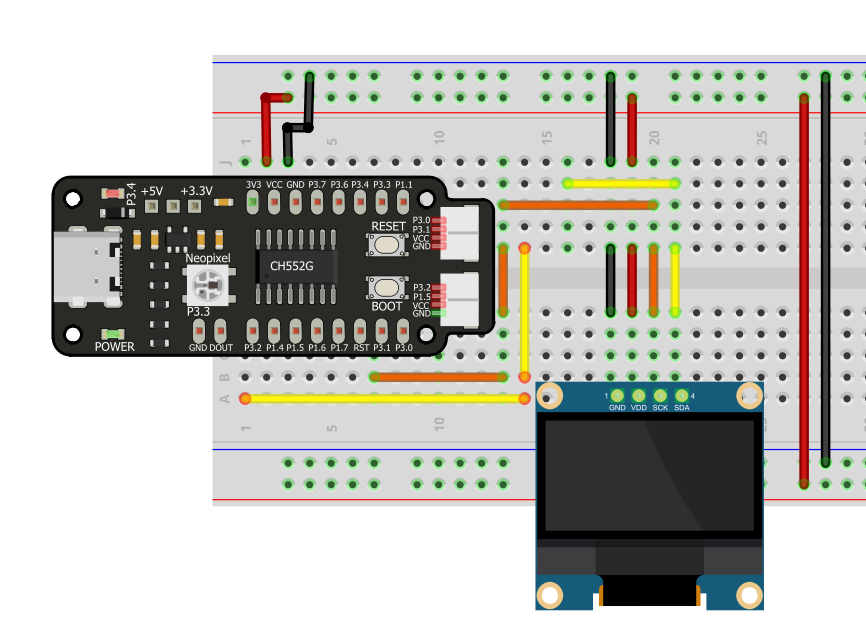
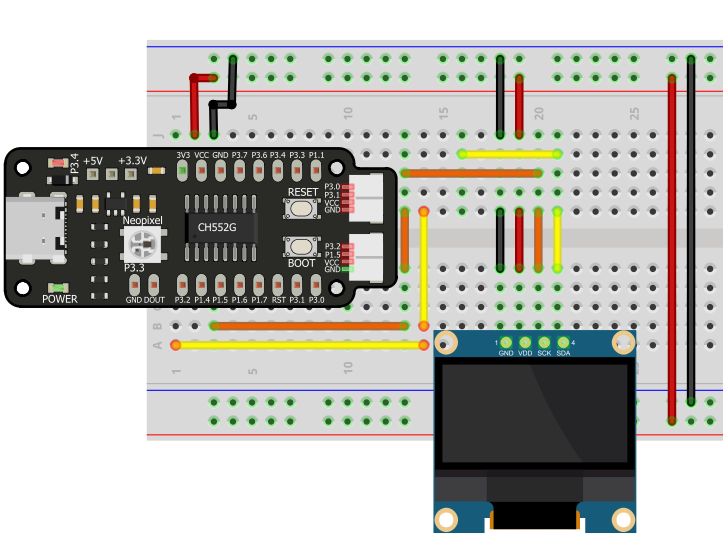
chore: edit controlador pwm and comunicacion i2c

diff --git a/content/docs/9-Controlador_pwm/_index.md b/content/docs/9-Controlador_pwm/_index.md
@@ -6,15 +6,16 @@ BookToC: false
 ---
 
 # Configuración del PWM 
+---
 El CH552 es un microcontrolador USB que ofrece versatilidad en las Entradas/Salidas, incluida la capacidad de generar señales PWM. En este ejemplo, se te guiará a través de la configuración del CH552 para generar señales PWM con una frecuencia y ciclo de trabajo específicos.
 
-## Conceptos Básicos del PWM
+### Conceptos Básicos
 
 La Modulación de Ancho de Pulso (PWM) es una técnica utilizada para controlar la potencia entregada a un dispositivo. Se logra variando la duración de una señal digital de alta frecuencia, controlando así la cantidad de potencia entregada al dispositivo. Esto es útil en diversas aplicaciones, como el control de motores, ajuste de brillo de LED y generación de señales analógicas.
 
-## Ejemplo de Código PWM
-
-Para probar el ejemplo, es necesario seguir los siguientes estos pasos:
+## Compilar proyecto
+---
+Para probar el ejemplo, es necesario seguir los siguientes pasos:
 
 1. Descargar el archivo:
 
@@ -34,12 +35,28 @@ Para probar el ejemplo, es necesario seguir los siguientes estos pasos:
    - Ajuste de carga a: "USER CODE /w 2866 USB RAM".
 
 ```
+<div style="text-align: center;">
+  <img src="/docs/9-Controlador_pwm/images/pwm1.png" alt="PWM" />
+</div>
 
-4. Completa la carga del código presionando el botón de boot mientras se conecta vía USB.
+## Compilar y correr un programa
+---
 
-A continuación, se decribe el funcionamiento del codigo para generar señales PWM:
+Carga un programa ingresando al modo de <strong>BOOT</strong> (cargador de arranque). Desconecte el cable USB, presione el botón <strong>BOOT</strong> en la tarjeta de desarrollo y luego vuelve a conectar a la PC.
 
-El IDE abre dos archivos, el primero es un interfaz de compilación:
+<img src="/docs/3-Compilador_mcs51/images/pc_ch.png" alt="Imagen de ch552">
+
+Presione cargar codigo y espere hasta que muestre el mensaje Resetok.
+<p align="center">
+    <img src="/docs/3-Compilador_mcs51/images/ruin.png" alt="buttons_leds">
+</p>
+
+
+**A continuación, se describe el funcionamiento del código para generar señales PWM:**
+
+Al abrir el IDE, este despliega dos archivos. Dado que Arduino actúa simplemente como un compilador, la estructura del código presentado experimentará cambios al ser procesado. Por lo tanto, se sugiere abrir el proyecto completo utilizando un editor de código preferido.
+
+En este contexto, se recomienda el uso de <a href="https://code.visualstudio.com/" target="_blank">Visual Studio Code</a>. El primer archivo corresponde a una interfaz de compilación. Este entorno de desarrollo proporciona una visión integral del proyecto, permitiendo un manejo más eficiente y una comprensión más profunda de la estructura del código.
 ```c
 #ifndef USER_USB_RAM
 #error "This firmware needs to be compiled with a USER USB setting"
@@ -52,127 +69,83 @@ unsigned char _sdcc_external_startup (void) __nonbanked {
 ```
 El segundo abre el código que permite hacer la función deseada:
 
+ Este código incluye funciones para cambiar la señal PWM y un bucle principal que realiza transiciones suaves.
+
+
+
 ```c
-/** @file CH552-PWM.c (SOURCE)
- *
- *  @brief CH552 PWM example
- *
- *  @author @CesarBautista 
- *
- *  @bug No known bugs.
- */
-
-/******************************************************************************
- * INCLUDES
- *****************************************************************************/
-
 #include <stdio.h>
-#include "src/config.h"                   // user configurations
-#include "src/system.h"                   // system functions
-#include "src/gpio.h"                     // for GPIO
-#include "src/delay.h"                    // for delays
+#include "src/config.h"
+#include "src/system.h"
+#include "src/gpio.h"
+#include "src/delay.h"
 #include "src/pwm.h"
-
-/******************************************************************************
- * MACROS AND DEFINES
- *****************************************************************************/
 
 #define MIN_COUNTER 10
 #define MAX_COUNTER 254
 #define STEP_SIZE   10
 
-/******************************************************************************
- * TYPEDEFS
- *****************************************************************************/
-
-/******************************************************************************
- * PUBLIC FUNCTION PROTOTYPES
- *****************************************************************************/
-
 void change_pwm(int hex_value)
 {
-    PWM_write(PIN_PWM, hex_value);
+  PWM_write(PIN_PWM, hex_value);
 }
 void main(void) 
 {
-    PWM_set_freq(1000);                    
-    PIN_output(PIN_PWM);       
-    PWM_start(PIN_PWM);      
-    PWM_write(PIN_PWM, 0);
-    CLK_config();                          
-    DLY_ms(5);                            
+  PWM_set_freq(1000);                    
+  PIN_output(PIN_PWM);       
+  PWM_start(PIN_PWM);      
+  PWM_write(PIN_PWM, 0);
+  CLK_config();                          
+  DLY_ms(5);                            
 
 while (1) 
 {
-    for (int i = MIN_COUNTER; i < MAX_COUNTER; i+=STEP_SIZE) 
-    {
-        change_pwm(i);
-        DLY_ms(10);
-    }
-    for (int i = MAX_COUNTER; i > MIN_COUNTER; i-=STEP_SIZE)
-    {
-        change_pwm(i);
-        DLY_ms(10);
-    }
-    
+  for (int i = MIN_COUNTER; i < MAX_COUNTER; i+=STEP_SIZE) 
+  {
+    change_pwm(i);
+    DLY_ms(10);
+  }
+  for (int i = MAX_COUNTER; i > MIN_COUNTER; i-=STEP_SIZE)
+  {
+    change_pwm(i);
+    DLY_ms(10);
+  }
+  
 }
 }
-```
-Dado que arduino solo es nuestro compilador el codigo que se te presenta cambia su estructura, por lo que debes abrir el proyecto completo con tu editor de codigo favorito:
 
-Se te recomienda el uso de <a href="https://code.visualstudio.com/" target="_blank">Visual Studio Code</a>
-
-
-
-# Aplicaciones Prácticas del PWM
-
-El código proporciona una implementación práctica de PWM utilizando el microcontrolador CH552 y Arduino IDE. Se incluye un bucle principal que realiza transiciones suaves de la salida PWM, aplicable en situaciones prácticas como el control de motores para lograr movimientos suaves o el ajuste gradual de la intensidad luminosa de una fuente de luz.
-
-## Configuración para Arduino IDE
-
-El código está diseñado para ser utilizado con el microcontrolador CH552 y se integra con el entorno de desarrollo Arduino IDE. Asegúrate de tener instalada la biblioteca ch55xduino y sigue las instrucciones proporcionadas para la compilación. Se especifican opciones de configuración del board, como la fuente de reloj, el método de carga y la configuración USB.
-
-```c
-// Configuración para Arduino IDE
-// ...
-
-#ifndef USER_USB_RAM
-#error "This firmware needs to be compiled with a USER USB setting"
-#endif
-
-unsigned char _sdcc_external_startup (void) __nonbanked {
-  return 0;
-}
 ```
 
-Descargar el código para Arduino IDE [AQUÍ](/).
+El código proporciona una implementación práctica de PWM utilizando el microcontrolador CH552 y el entorno de desarrollo Arduino IDE. Se ha incorporado un bucle principal que ejecuta transiciones suaves en la salida PWM, lo cual resulta aplicable en diversas situaciones prácticas. Entre estas aplicaciones, se destacan el control de motores para lograr movimientos suaves y el ajuste gradual de la intensidad luminosa de una fuente de luz.
 
-## Código Fuente para CH552
+De manera predeterminada, la tarjeta de desarrollo del CH552 cuenta con un LED conectado al pin `P3.4`, y la configuración específica se encuentra en el archivo `scr\config.h`.
+```html
+// Pin definitions
+#define PIN_BUZZER          P33       // buzzer pin
+#define PIN_SDA             P31       // I2C SDA
+#define PIN_SCL             P30       // I2C SCL
+#define PIN_ADC             P11       // pin used as ADC input<--
+#define PIN_PWM             P34       // PWM pin  -->
+#define PIN_BUTTON          P15       // button pin
+#define PIN_BUTTON2         P32      // button pin
+#define PIN_BUT_START       P16      // button pin
 
-Adicionalmente, se proporciona el código fuente en C para el microcontrolador CH552. Este código incluye funciones para cambiar la señal PWM y un bucle principal que realiza transiciones suaves.
 
-```c
-// Código fuente para CH552
-// ...
-
-void change_pwm(int hex_value) {
-    PWM_write(PIN_PWM, hex_value);
-}
-
-void main(void) {
-    // Configuración del PWM y otros ajustes
-    // ...
-
-    while (1) {
-        // Bucle principal con transiciones suaves
-        // ...
-    }
-}
 ```
 
-Descargar el código fuente para CH552 [AQUÍ](/).
 
-![](/docs/9-Controlador_pwm/images/pwm.gif)
+
+
+## Resultado
+---
+
+<div style="text-align: center;">
+  <img src="/docs/9-Controlador_pwm/images/led.gif" alt="LED" />
+</div>
+
+<div style="text-align: center;">
+  <img src="/docs/9-Controlador_pwm/images/pwm.gif" alt="PWM" />
+</div>
 
 <div style="text-align: right">
     <h1><a href="/docs/10-comunicacion_i2c/">Siguiente</a></h>

diff --git a/content/docs/10-Comunicacion_I2C/_index.md b/content/docs/10-Comunicacion_I2C/_index.md
@@ -6,9 +6,8 @@ BookToC: false
 ---
 
 # Comunicación I2C
-Configuración OLED I2C SSD1306
+---
 En la intersección de la innovación tecnológica y la creatividad visual, las pantallas OLED desempeñan un papel central. Este repositorio se enfoca en el proceso de configuración de un modelo específico: la pantalla OLED SSD1306. Hemos adaptado el código original de Stefan Wagner con el objetivo de lograr una comunicación eficiente y fluida en el chip ch552. Para lograrlo, utilizamos el protocolo I2C y el entorno de programación Arduino IDE.
-
 
 
 
@@ -18,41 +17,68 @@ En la intersección de la innovación tecnológica y la creatividad visual, las 
 
 Exploraremos los pasos fundamentales para realizar esta configuración, haciendo especial hincapié en la obtención del archivo `oled_hola_mundo`, la precisa adaptación de los parámetros de datos en armonía con el entorno ch55xduino y la consecuente capacidad de presentar mensajes de manera efectiva en la pantalla. Acompáñanos en esta travesía de integración tecnológica y expresión visual.
 
+
+
+## Compilar proyecto
+---
+Para probar el ejemplo, es necesario seguir los siguientes pasos:
+
+1. Descargar el archivo:
+
+<div style="text-align: center;">
+    <a href="/docs/9-Controlador_pwm/code/oled_hola_mundo.zip" download="oled_hola_mundo.zip">
+        <button style="background-color: #4CAF50; color: white; padding: 10px 20px; border: none; border-radius: 4px; cursor: pointer;">
+           oled_hola_mundo.zip
+        </button>
+    </a>
+</div>
+
+2. Abre el archivo `oled_hola_mundo.ino` con Arduino IDE.
+3. Configura el entorno con las siguientes especificaciones:
+```c
+   - Reloj: 16 MHz.
+   - Método de carga: USB.
+   - Ajuste de carga a: "USER CODE /w 2866 USB RAM".
+
+```
+<div style="text-align: center;">
+  <img src="/docs/9-Controlador_pwm/images/pwm1.png" alt="PWM" />
+</div>
+
+## Compilar y correr un programa
+---
+
+Carga un programa ingresando al modo de <strong>BOOT</strong> (cargador de arranque). Desconecte el cable USB, presione el botón <strong>BOOT</strong> en la tarjeta de desarrollo y luego vuelve a conectar a la PC.
+
+<img src="/docs/3-Compilador_mcs51/images/pc_ch.png" alt="Imagen de ch552">
+
+Presione cargar codigo y espere hasta que muestre el mensaje Resetok.
+<p align="center">
+    <img src="/docs/3-Compilador_mcs51/images/ruin.png" alt="buttons_leds">
+</p>
+
+
+
+
+
 Para configurar nuestra pantalla OLED, hacemos uso del Arduino IDE para cargar los archivos. Por lo que para poder iniciar con nuestro despliesgue se necesita:
 
 
 
 
-```c#
-// Pin definitions
 
-#define PIN_BUZZER          P33       // buzzer pin
-
-#define PIN_SDA             P31       // I2C SDA
-
-#define PIN_SCL             P30      // I2C SCL
-
-
-```
 ```c#
 // Pin definitions
 #define PIN_BUZZER          P33       // buzzer pin
-#define PIN_SDA             P31       // I2C SDA
-#define PIN_SCL             P30      // I2C SCL
+#define PIN_SDA             P15       // I2C SDA
+#define PIN_SCL             P32      // I2C SCL
 ```
-<div style="text-align: right;">
-    <a href="" download=".ino">
-        <button style="background-color: #4CAF50; color: white; padding: 10px 20px; border: none; border-radius: 4px; cursor: pointer;">
-            Download 
-        </button>
-    </a>
-</div>
+
 
 El PIN BUZZER o de LED nos permite saber que la transmisión de los datos se ejecutó correctamente. Como se menciona no es necesaria su conexión a menos que se desee ocupar como alerta.
 
  
 
-El PIN BUZZER o de LED nos permite saber que la transmisión de los datos se ejecutó correctamente. Como se menciona no es necesaria su conexión a menos que se desee ocupar como alerta.
 
 ```js
 // Conexión CH552 a LED:
@@ -60,11 +86,11 @@ El PIN BUZZER o de LED nos permite saber que la transmisión de los datos se eje
 //                                       +--\/--+
 //     OLED (SDA) ---------------- P32  1|°     |16  V33 -------------
 //                ---------------- P14  2|      |15  Vcc -------------
-//                ---------------- P15  3|      |14  GND -------------
+//     OLED (SCL) ---------------- P15  3|      |14  GND -------------
 //                ---------------- P16  4|      |13  P37 UDM --- USB D-
 //                ---------------- P17  5|      |12  P36 UDP --- USB D+
 //                ---------------- RST  6|      |11  P34 -------------
-//     OLED (SCL) ---------------- P31  7|      |10  P33 BUZZER or LED
+//                ---------------- P31  7|      |10  P33 BUZZER or LED
 //                ---------------- P30  8|      |9   P11 -------------
 //                                       +------+
 //                                          
@@ -80,21 +106,11 @@ El PIN BUZZER o de LED nos permite saber que la transmisión de los datos se eje
 //                                       | +---------+   |
 //                                       +---------------+
 ```
-Para poder cargar el archivo configura el entorno con las siguiente especificaciones:
-
-```c
-Reloj: 16 Mhz.
-
-Método de carga: USB.
-
-Ajuste de carga a:  "USER CODE /w 2866 USB RAM"
-```
-Para completar la carga del código, presiona el botón de boot mientras se conecta vía USB.
 
 
-La configuración de la conexión, se encuentra asignada en el archivo de la ruta scr/config.h
-![](/docs/10-Comunicacion_I2C/images/buttons.png)
 
+## Resultado
+---
 
 ![](/docs/10-Comunicacion_I2C/images/oled2.png)
 
